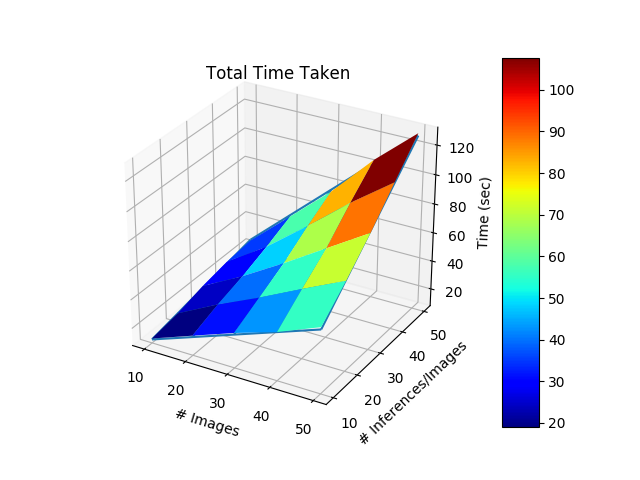
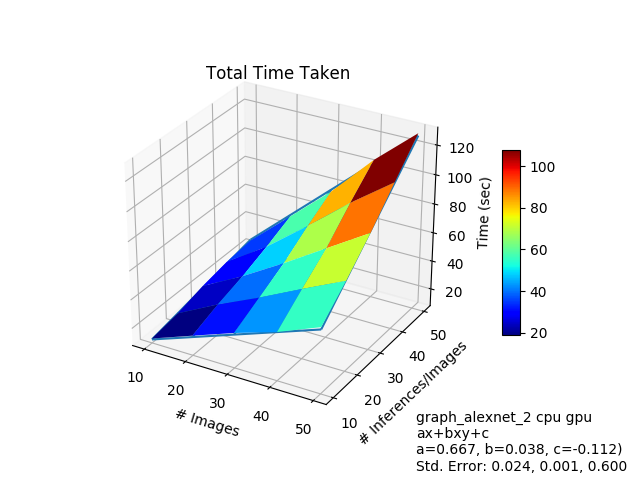
Add mobilenet

Changed region(s): [[0.6562, 0.0938, 0.9688, 1.0]]

diff --git a/perf.py b/perf.py
@@ -4,7 +4,7 @@ import subprocess
 import matplotlib
 import json
 import numpy as np
-#matplotlib.use('Agg')
+matplotlib.use('Agg')
 import matplotlib.pyplot as plt
 from time import sleep
 
@@ -62,7 +62,7 @@ def run(graph, target, n, i):
     t_image = float(re.findall('(\d+.\d+) per image', out)[0])
     return cpu_images, gpu_images, t_image
 
-def plot_fig(k, x, y, z, zp):
+def plot_fig(k, x, y, z, zp, popt, se):
     graph, target = k
     fig = plt.figure()
     ax = fig.gca(projection='3d')
@@ -75,11 +75,12 @@ def plot_fig(k, x, y, z, zp):
     surf2 = ax.plot_wireframe(x1, y1, z1p, cmap='flag')
     ax.xaxis.set_major_locator(MultipleLocator(10.0))
     ax.yaxis.set_major_locator(MultipleLocator(10.0))
-    fig.colorbar(surf, shrink=1, aspect=10)
+    fig.colorbar(surf, shrink=0.5, aspect=10)
     ax.set_xlabel('# Images')
     ax.set_ylabel('# Inferences/Images')
     ax.set_zlabel('Time (sec)')
     ax.set_title('Total Time Taken')
+    plt.figtext(0.65, 0.02, graph + ' ' + target + '\nax+bxy+c\na=%5.3f, b=%5.3f, c=%5.3f)\nStd. Error: %5.3f, %5.3f, %5.3f' % tuple(np.concatenate((popt,se))))
     #plt.show()
     plt.savefig('perf_plots/'+graph+"_"+target+"_v1.png")
 
@@ -88,7 +89,7 @@ if __name__ == "__main__":
     env = dict(os.environ)
     env['LD_LIBRARY_PATH'] = './build/release'
     time = {}
-    for graph in graphs[:1]:
+    for graph in graphs[:2]:
         for target in targets:
             _target = target.replace('-', '')
             print(graph, _target)
@@ -106,9 +107,7 @@ if __name__ == "__main__":
             [x, y] = xy.T
             return a*x + b*x*y + c
         popt, pcov = curve_fit(func, np.array(list(zip(x, y))), z)
-        print("Std. Error:", np.sqrt(np.diag(pcov)))
-        print("ax+bxy+c")
-        print("a=%5.3f, b=%5.3f, c=%5.3f" % tuple(popt))
+        se = np.sqrt(np.diag(pcov))
         z1 = func(np.array(list(zip(x, y))), *popt) 
-        plot_fig(k, x, y, z, z1)
+        plot_fig(k, x, y, z, z1, popt, se)
 
